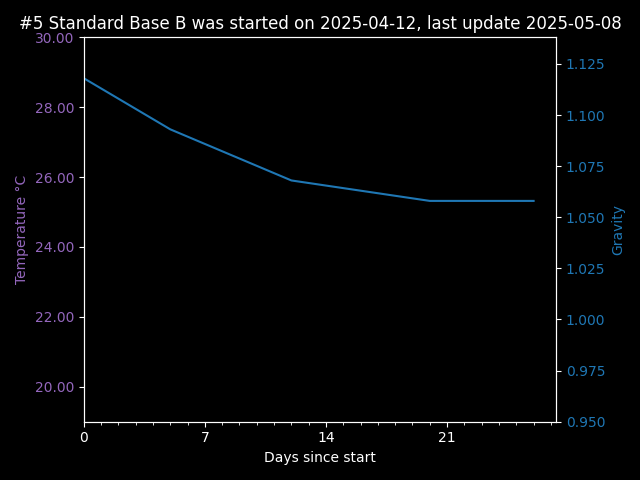
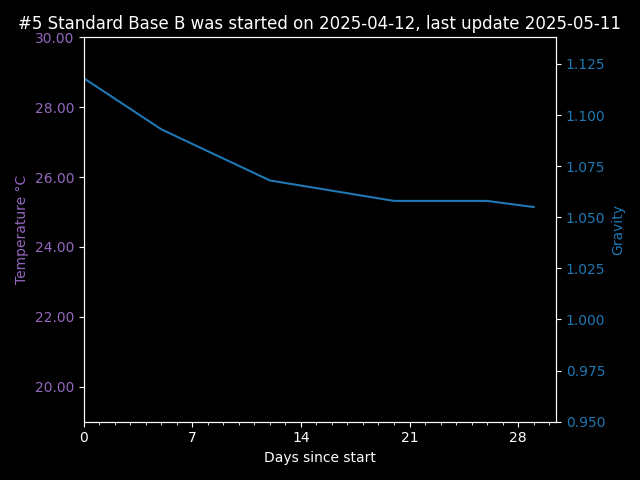
2025-05-11

diff --git a/Recipe List/5_Standard_Base_A.md b/Recipe List/5_Standard_Base_A.md
@@ -58,11 +58,12 @@ Yeast Food
 | 2025-04-12 | 21.0           | 1.120   |    | 09:45 Agitated airation         |
 | 2025-04-13 |                |         |    | 10:30 Airation                  |
 | 2025-04-13 |                |         |    | 17:30 Airation + Added Fermaid  |
-| 2025-04-16 |                | 1.112   |    | 19:50 Airation                  |
+| 2025-04-16 |                | 1.102   |    | 19:50 Airation                  |
 | 2025-04-17 |                | 1.096   |    | 18:00  Airation + Added Fermaid |
 | 2025-04-24 |                | 1.072   |    |                                 |
 | 2025-05-02 |                | 1.058   |    |                                 |
 | 2025-05-08 |                | 1.058   |    |                                 |
+| 2025-05-11 |                | 1.058   |    |                                 |
 |            |                |         |    |                                 |
 |            |                |         |    |                                 |
 |            |                |         |    |                                 |

diff --git a/Recipe List/5_Standard_Base_B.md b/Recipe List/5_Standard_Base_B.md
@@ -63,6 +63,7 @@ Yeast Food
 | 2025-04-24 |                | 1.068   |    |                                |
 | 2025-05-02 |                | 1.058   |    |                                |
 | 2025-05-08 |                | 1.058   |    |                                |
+| 2025-05-11 |                | 1.055   |    |                                |
 |            |                |         |    |                                |
 |            |                |         |    |                                |
 |            |                |         |    |                                |
